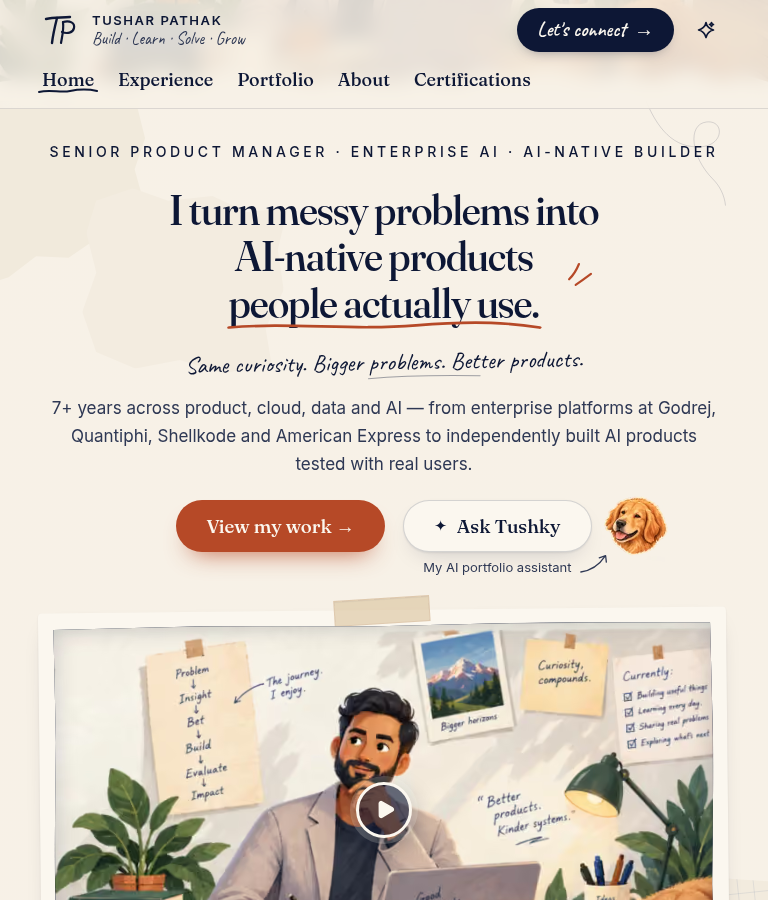
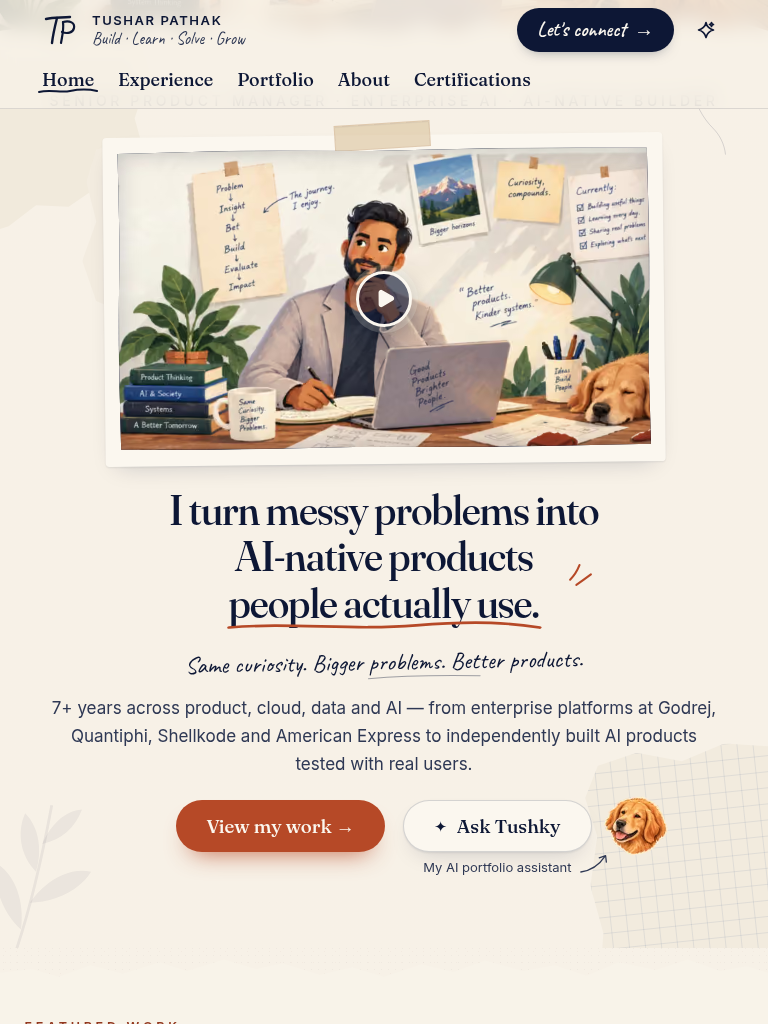
fix(home): cap the hero intro video at 560 px so h1 + CTAs stay one scroll away
With the print above the h1, a 720 px video pushed the CTA row past one
scroll at >= 768: 798 px at w1024 and 984 px at w1440, breaking
Dev-39's rule. At 560 px both are within one viewport again.
home.spec's EVAL-001 phone branch now follows Dev-132 too: the first
viewport holds the name, title, desk and video, and the h1 + CTAs are
one scroll away. Screenshots refreshed.

Claude-Session: https://claude.ai/code/session_01UG5KhDicLtYBRWeFVf7t5z

diff --git a/tests/e2e/home.spec.ts b/tests/e2e/home.spec.ts
@@ -259,22 +259,24 @@ test("@EVAL-001 the six 5-second-test elements sit in the first viewport (w390) 
     await expect(page.locator("h1#hero-h")).toContainText("AI-native products");
     return;
   }
+  // Tushar 2026-10-05 (Design.md §11 Dev-132): the intro video sits right after the eyebrow at every
+  // width, so on phones the h1 and CTAs move to one scroll away; the first viewport holds the name, the
+  // title, the desk and the video.
   const vh = page.viewportSize()!.height;
   const elements = {
     name: page.locator("header .header-name"),
     title: page.getByText(hero.eyebrow.text, { exact: true }),
-    value: page.locator("h1#hero-h"),
     desk: page.getByAltText(HERO_BANNER_ALT),
-    work: page.getByRole("link", { name: "View my work →" }),
-    ask: page.locator(".hero-cta-row").getByRole("link", { name: "Ask Tushky" }),
+    video: page.locator(".hero-intro").getByRole("button", { name: `Play ${hero.introVideo.title}` }),
   };
   for (const [label, locator] of Object.entries(elements)) {
     await expect(locator, label).toBeVisible();
     const box = (await locator.boundingBox())!;
     expect(box.y, `${label} top inside the first viewport`).toBeGreaterThanOrEqual(0);
-    // Text and CTAs must be wholly above the fold; the banner only needs to be on screen.
+    // Text and the Play button must be wholly above the fold; the banner only needs to be on screen.
     const bottom = label === "desk" ? box.y : box.y + box.height;
     expect(bottom, `${label} (${Math.round(box.y)}–${Math.round(box.y + box.height)}) within ${vh}px`).toBeLessThanOrEqual(vh);
   }
-  await expect(elements.value).toContainText("AI-native products");
+  await expect(page.locator("h1#hero-h")).toContainText("AI-native products");
+  await expectCopyWithinOneScroll(page);
 });

diff --git a/app/globals.css b/app/globals.css
@@ -10247,10 +10247,11 @@ html.lenis body {
    below the first screen). Reuses the portfolio player's screen (`.pf-stage-screen` 16:9, `.pf-play`,
    `.pf-player`). The print is content paper with one tape fastener: the decoration count is unchanged. */
 @layer components {
+  /* 560 px keeps the h1 + CTAs within one scroll at >= 768 (Dev-39) with the print above them. */
   .hero-intro {
     justify-self: center;
-    width: min(100%, 720px);
-    margin-top: clamp(22px, 2.6vw, 38px);
+    width: min(100%, 560px);
+    margin-top: clamp(22px, 2.4vw, 34px);
   }
   .hero-intro-print {
     display: block;

diff --git a/components/hero/Hero.tsx b/components/hero/Hero.tsx
@@ -156,7 +156,7 @@ export function Hero() {
               <ProductMediaPlayer
                 media={hero.introVideo}
                 className="pf-stage-screen hero-intro-screen"
-                fallbackPoster={<Image src={POSTER.publicSrc!} alt="" fill sizes="(min-width: 1024px) 720px, 92vw" className="pf-stage-poster" />}
+                fallbackPoster={<Image src={POSTER.publicSrc!} alt="" fill sizes="(min-width: 640px) 560px, 92vw" className="pf-stage-poster" />}
               />
             </Sheet>
           </div>

diff --git a/Design.md b/Design.md
@@ -612,7 +612,7 @@ Each row: what differs from the mockup or the earlier spec, why, and the disposi
 | Dev-129 | **Supersedes Dev-10's DRAFT tag on case-study pages.** A `/work/<slug>` page shows no development copy at all: no "Draft", "Pending sign-off", "coming soon", "Hero media coming", "Deep dive coming" or placeholder text. A fact that isn't signed off is left out, never tagged. The band footer's unsigned hiring line ("Hiring for PM, AI PM…" + `DraftTag`) is hidden on case-study pages only (`body:has(.csx) .band-hire`, in the route-scoped `case-study.css`). Every other route keeps Dev-10 until Tushar signs it off. Tests assert the new contract (`case-study-system.spec.ts`, `case-studies.test.ts`) | case-study spec §31 ("Never publicly display: … Draft, Pending sign-off …"); brief TASK-130 §4 | Tushar, 2026-09-29 (TASK-130) |
 | Dev-130 | **Supersedes §7.3's case-study template** (header → metric strip → 30-sec/Deep-dive tabs → eight chapters → Show the thinking → learnings → sources). Each personal build renders a one-page case study from its own record in `data/case-studies/<slug>.ts` (schema `CaseStudy`, spec §37), via shared primitives in `components/case-study/system/`: hero, metric card with the four evidence badges (● Measured · ◐ Self-reported · ◇ Structural · ○ Prototype), problem flow, product showcase, decision card, system flow, outcome board and funnel, pivot flow, research wall, learning card, evidence drawer (a modal `<dialog>`), CTA strip and a sticky section navigator (≥ 1024 only). Per product (spec §7–§9, §39): `theme.key` scopes a block in `app/work/[slug]/case-study.css` (motif, accents from 1–3 paper tokens via `color-mix`, hero composition, diagram styling, one-time viewport motion); `theme-decor.tsx` adds ≤ 2 decorations per section (EVAL-018 budget unchanged); hand-authored SVG art ships static in `public/media/case-studies/<slug>/` (`scripts/case-study-art/`). The shared scene opener is removed from case studies: each product's own hero opens the page (spec §5, §12 "show the product early"). Old `NN-slug` chapter anchors land on the matching section, so every existing deep link resolves | case-study spec §1–§53 (RailCite one-pager as the quality benchmark) | Tushar, 2026-09-29 (TASK-130) |
 | Dev-131 | Every link to a case study (`/work/<slug>`, with or without a `#hash`; not `/work` itself) opens in a new tab: `target="_blank" rel="noopener noreferrer"` plus a visually hidden "(opens in a new tab)" in its accessible name. This covers the Portfolio info sheet and the project cards, the next-project band, Ask Tushky sources, How-I-think pills, essay "Related project" links and thinking-chain source links (`lib/case-study-link.ts`, `components/common/NewTabHint.tsx`). `tests/e2e/case-study-new-tab.spec.ts` crawls every public route. The View-Transition morph (EXE-5) therefore no longer runs on these hops; the `project-<slug>` name stays on the h1 | Tushar's TASK-130 message ("whenever a user clicks on case study link a new tab should open") | Tushar, 2026-09-29 (TASK-130) |
-| Dev-132 | Home hero intro video (Tushar 2026-10-05). His YouTube intro (`data/hero.ts` `introVideo`, `ZwlfSraVNr8`) sits **right after the eyebrow line, above the h1, at every width** (Tushar, same day: "put the intro video after the Senior Product Manager · Enterprise AI · AI-native builder line"; first shipped under the CTA row). It is a taped photo print (≤ 720 px, −0.6°) using the portfolio's click-to-load `ProductMediaPlayer` (TASK-122). The hero desk illustration is the poster, and nothing loads from YouTube until Play is pressed. It is content paper plus one tape fastener, so the hero's decoration count is unchanged. **Changes EVAL-001 at < 768 (Tushar's call):** the phone's first viewport now holds the header name, the eyebrow title, the banner desk and the video, while the h1, hand line and CTAs move to at most one scroll away (as ≥ 768 already does, Dev-39) | — | Tushar, 2026-10-05 |
+| Dev-132 | Home hero intro video (Tushar 2026-10-05). His YouTube intro (`data/hero.ts` `introVideo`, `ZwlfSraVNr8`) sits **right after the eyebrow line, above the h1, at every width** (Tushar, same day: "put the intro video after the Senior Product Manager · Enterprise AI · AI-native builder line"; first shipped under the CTA row). It is a taped photo print (≤ 560 px, so the h1 + CTAs stay within one scroll at ≥ 768; −0.6°) using the portfolio's click-to-load `ProductMediaPlayer` (TASK-122). The hero desk illustration is the poster, and nothing loads from YouTube until Play is pressed. It is content paper plus one tape fastener, so the hero's decoration count is unchanged. **Changes EVAL-001 at < 768 (Tushar's call):** the phone's first viewport now holds the header name, the eyebrow title, the banner desk and the video, while the h1, hand line and CTAs move to at most one scroll away (as ≥ 768 already does, Dev-39) | — | Tushar, 2026-10-05 |
 | Dev-133 | **Amends TP1 (all-static).** The site gains its first server functions (TASK-134): `POST /api/tushky/speech` (a Vercel Node function that speaks a real Ask Tushky answer, recomputed on the server from the question — it never accepts text) and the dev-only `GET /api/dev/tushky-voice` (voice audition; 404 unless `NODE_ENV=development`). Every page stays prerendered. `scripts/assert-static.ts` now allows exactly these two dynamic route handlers and fails the build on any other non-prerendered handler or page (`tests/unit/assert-static.test.ts`). The route's rate limit and audio cache are in-memory per instance (no KV approved); CSP `media-src` gains `blob:` | voice spec §11, §53–56, §74; brief §3.2–3.4 | Proposed 2026-09-29 (TASK-134) — Tushar approves the first server function and adds `GEMINI_API_KEY` in Vercel |
 | Dev-134 | Ask Tushky voice strip (TASK-134) vs the mockup and the two voice specs: the strip sits inside each answer bubble between the answer and its sources (UI §1/§20); a refusal or empty answer gets none. In the drawer the bubble is ≈ 340 px wide even at 1440, so Replay is icon-only below a 380 px strip and the label is "Listen" with icon-only Pause/Resume below 300 px (UI §32; accessible names unchanged). Ended shows "Replay" (UI §11 allows it). The loading copy appears only after 150 ms so cached audio goes straight to Playing (UI §21). The speaking cue is two small rust sound-wave marks by the avatar (UI §14). Left out, both optional: the "Tap to hear Tushky →" annotation and the "Tushky can talk too 🔊" note (the empty state stays unchanged, brief §4), and seeking (UI §13). FAQ audio metadata lives in `data/tushky/faq-audio.json` keyed by FAQ id instead of an `audio` field inside `faq.json` (spec §29), so the TASK-123 refresh script and the audio script never rewrite each other's file. `TushkyVoicePlayer` takes the question and the answer text, not `speechText` (UI §37), because the server recomputes the speech | voice UI spec §1–46; voice spec §19–24, §29 | Proposed 2026-09-29 (TASK-134) |
 
